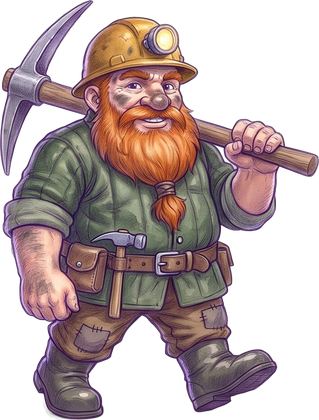
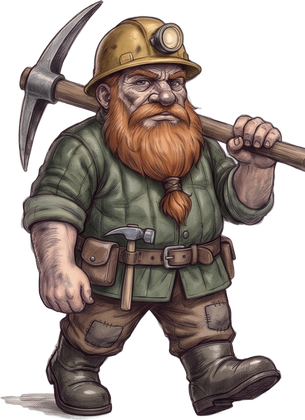
Build 256: Штейгер Бурав, Кузнец Молотобой and Ювелир Искорка redrawn in the grim storybook style (her pick)
Rough ink and pencil, dull earthy colours, stern weathered faces; same costumes and poses, real left-right step cycles (SYNTX 9 sheets, 18 tokens).

diff --git a/js/game.js b/js/game.js
@@ -2,13 +2,13 @@
 import {
   OFFLINE_CAP_SEC, MAX_DESKS, MAX_ITEM_LEVEL, MAX_TEACHER_LEVEL, MAX_TIME_LEVEL,
   CLASSES, SPECIES, NAMES, MISSIONS, WORLDS, WORLD, META,
-} from './data.js?v=255';
-import { EMOJI_RE, emojiImage, preloadEmoji, watchEmoji, emojiHtml } from './emoji.js?v=255';
+} from './data.js?v=256';
+import { EMOJI_RE, emojiImage, preloadEmoji, watchEmoji, emojiHtml } from './emoji.js?v=256';
 
 const SAVE_KEY = WORLD === 1 ? 'magicschool.save.v2' : 'magicschool.save.v2.w' + WORLD;   // every world keeps its own save
 const saveKeyOf = (w) => (w === 1 ? 'magicschool.save.v2' : 'magicschool.save.v2.w' + w);
 const VERSION = '0.9';
-const BUILD = 255;   // keep equal to the ?v= number in index.html
+const BUILD = 256;   // keep equal to the ?v= number in index.html
 const $ = (s, r = document) => r.querySelector(s);
 const rnd = (a) => a[Math.floor(Math.random() * a.length)];
 
@@ -1639,7 +1639,7 @@ const ZMIN = 0.9, ZMAX = 3.4;
 const sprites = {};
 // professors drawn one by one, each approved by Maria (class id -> file in assets/staff)
 const STAFF_ART = { herbs: 'moss', potions: 'bubble', stars: 'lun', charms: 'spark', flight: 'breeze', elements: 'storm', final: 'owl' };
-const STAFF_V = { granite: 2 };   // per-name cache version of redrawn staff sprites (world-2 grim style, her pick 2026-11-23)
+const STAFF_V = {granite: 2, burav: 2, hammer: 2, iskra: 2 };   // per-name cache version of redrawn staff sprites (world-2 grim style, her pick 2026-11-23)
 const STAFF_ART_W2 = { runes: 'granite', mine: 'burav', forge: 'hammer', gems: 'iskra' };   // world 2 teachers (her pick 2026-11-22: old dwarf rune master «Мастер Гранит»)
 const staffOf = (cid) => (WORLD === 1 ? STAFF_ART : WORLD === 2 ? STAFF_ART_W2 : {})[cid];   // per world: world-2 'final' must not take the owl
 const STAFF_H = { iskra: 50, hammer: 56, burav: 54, granite: 54, moss: 58, bubble: 54, lun: 68, spark: 62, breeze: 56, storm: 68, owl: 60 };   // teachers clearly taller than students (30) — her ruling 2026-11-21
@@ -1648,7 +1648,7 @@ const STAFF_H = { iskra: 50, hammer: 56, burav: 54, granite: 54, moss: 58, bubbl
 const TEACHER_POSES = { iskra: ['explain', 'loupe', 'polish'], hammer: ['explain', 'strike', 'inspect'], burav: ['explain', 'dig', 'wipe'], granite: ['explain', 'carve', 'read'], moss: ['explain', 'water', 'sniff', 'read'], bubble: ['explain', 'stir', 'pour', 'sniff'], lun: ['map', 'spyglass', 'book', 'sphere'], spark: ['explain', 'star', 'curtsy', 'polish', 'book'], breeze: ['explain', 'map', 'wind', 'goggles', 'owl'], storm: ['explain', 'fire', 'water', 'leaves', 'breeze'], owl: ['announce', 'write', 'hourglass', 'glasses', 'seal'] };
 const TEACHER_FLY = { moss: true, bubble: true, lun: true, spark: true, breeze: true, storm: true, owl: true };
 const NO_PROUD = { lun: true };
-const WALK_POSE = { granite: ['step1', 'pass1', 'step2', 'pass2'], burav: ['step1', 'pass1', 'step2', 'pass2'], hammer: ['step1', 'pass1', 'pass2', 'pass1'], iskra: ['step1', 'pass1', 'pass2', 'pass1'] };   // walking frames cycled every 180 ms (her report: one walking picture looked like hopping on one leg)   // dwarves do not fly: their own walking picture while moving
+const WALK_POSE = { granite: ['step1', 'pass1', 'step2', 'pass2'], burav: ['step1', 'pass1', 'step2', 'pass2'], hammer: ['step1', 'pass1', 'step2', 'pass2'], iskra: ['step1', 'pass1', 'step2', 'pass2'] };   // walking frames cycled every 180 ms (her report: one walking picture looked like hopping on one leg)   // dwarves do not fly: their own walking picture while moving
 const FLY_LEFT = { breeze: true };   // flight frames drawn heading LEFT (her report 2026-11-22: «Капитан ветерок летает задом наперед»)   // her choice 2026-11-22: Lun has no joy pose, keeps his stop pose   // two flight frames <name>_fly1/fly2 (her ruling: «Парение не похоже на полет ... позу полета рисовать»)
 for (const [n, l] of Object.entries(TEACHER_POSES)) for (const f of [...l, ...(NO_PROUD[n] ? [] : ['proud']), ...(TEACHER_FLY[n] ? ['fly1', 'fly2'] : []), ...(WALK_POSE[n] || [])]) { const im = new Image(); im.onerror = () => {}; im.src = `assets/staff/${n}_${f}.png?v=${STAFF_V[n] || 1}`; sprites[n + '_' + f] = im; }
 const passAt = {};

diff --git a/index.html b/index.html
@@ -12,7 +12,7 @@
 <link rel="manifest" href="manifest.webmanifest">
 <link rel="apple-touch-icon" href="icons/icon-180.png?v=2">
 <link rel="icon" href="icons/icon-192.png?v=2">
-<link rel="stylesheet" href="style.css?v=255">
+<link rel="stylesheet" href="style.css?v=256">
 <script>/* iOS home-screen app: innerHeight / 100% / 100dvh are short by the status bar, a strip stayed at the bottom (her screenshots, builds 200-203); use the real screen height */
 (function(){function fit(){if(!(navigator.standalone||matchMedia('(display-mode: standalone)').matches))return;var h=Math.max(window.innerHeight,(Math.abs(window.orientation||0)===90?screen.width:screen.height));var r=document.documentElement;r.style.height=h+'px';if(document.body){document.body.style.height=h+'px';document.body.style.bottom='auto';}}fit();addEventListener('DOMContentLoaded',fit);addEventListener('resize',fit);addEventListener('orientationchange',function(){setTimeout(fit,300);});})();</script>
 </head>
@@ -41,6 +41,6 @@ setTimeout(function(){ if (window.__booted) return; var d=document.createElement
   d.querySelector('button').onclick=function(){ location.reload(); }; document.body.appendChild(d); }, 12000);
 if(!CanvasRenderingContext2D.prototype.roundRect){CanvasRenderingContext2D.prototype.roundRect=function(x,y,w,h){this.rect(x,y,w,h);};}
 </script>
-<script type="module" src="js/game.js?v=255"></script>
+<script type="module" src="js/game.js?v=256"></script>
 </body>
 </html>

diff --git a/js/emoji.js b/js/emoji.js
@@ -1,6 +1,6 @@
 // One emoji look on every device: emoji characters are replaced by bundled Twemoji pictures
 // (CC-BY 4.0, https://github.com/jdecked/twemoji), both in the page (DOM) and on the canvas.
-import { EMOJI_FILES } from './emoji-set.js?v=255';
+import { EMOJI_FILES } from './emoji-set.js?v=256';
 
 export const EMOJI_RE = /\p{Extended_Pictographic}(?:|\p{Extended_Pictographic}?|[\u{1F3FB}-\u{1F3FF}])*/gu;
 
